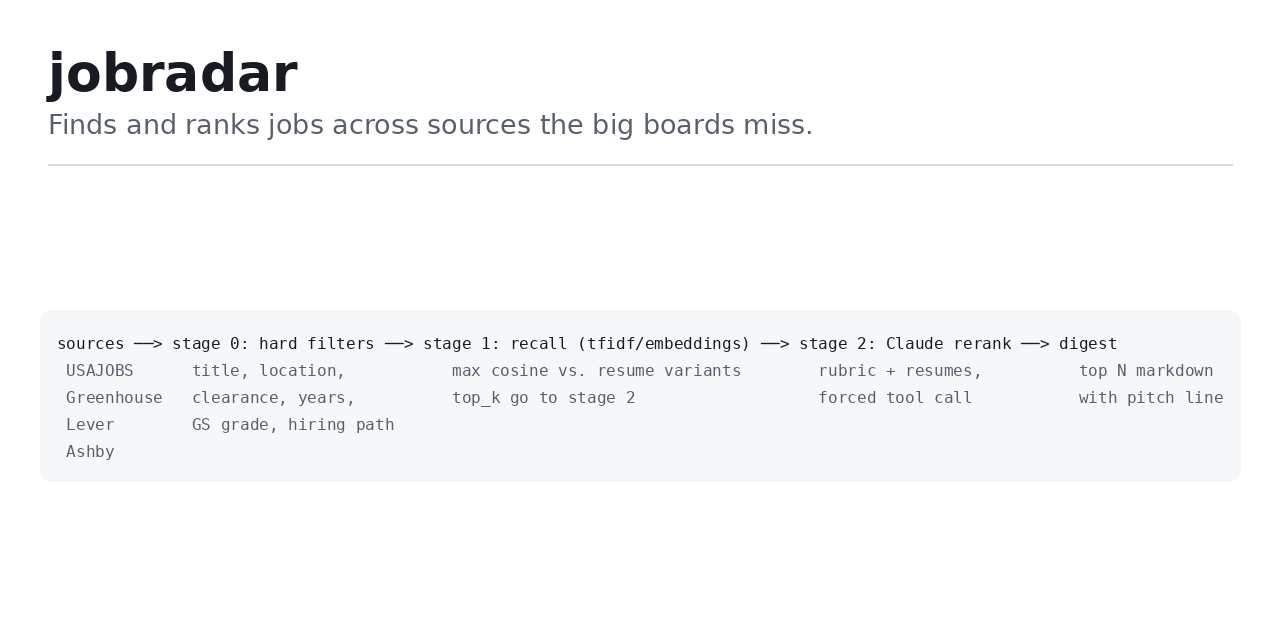
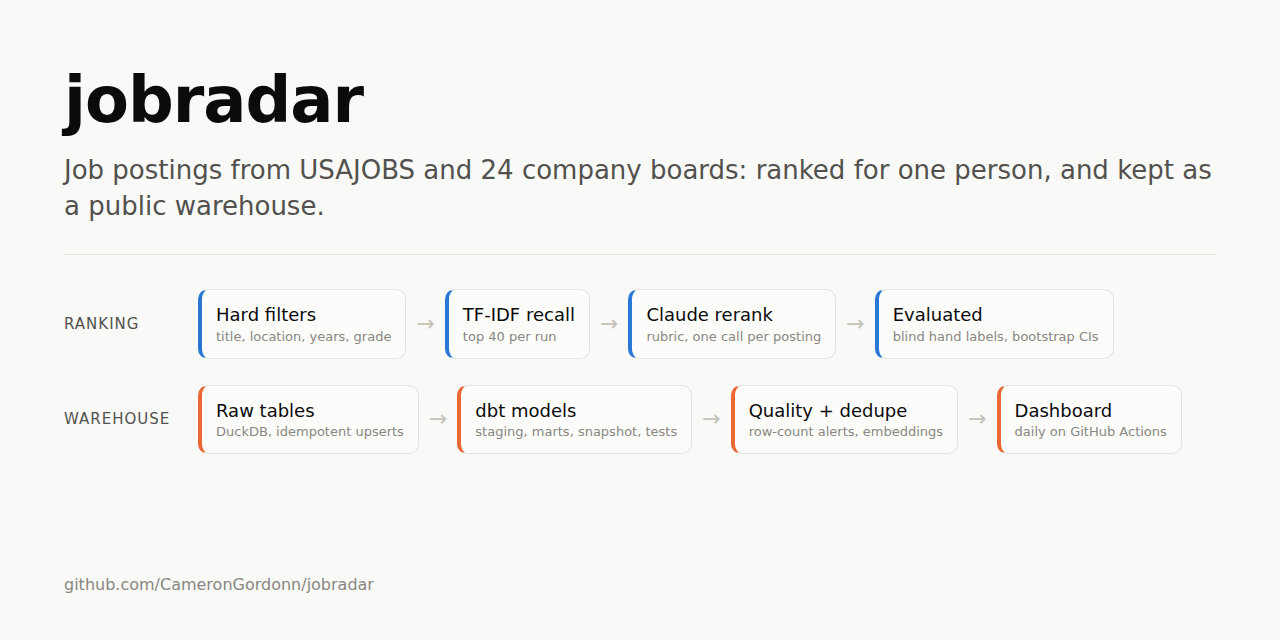
Redraw the social preview for both halves of the project
The old image showed only the original ranking pipeline. The HTML source
is committed next to the PNG so it can be regenerated.

diff --git a/docs/social-preview.html b/docs/social-preview.html
@@ -1,0 +1,40 @@
+<!doctype html>
+<html><head><meta charset="utf-8"><title>jobradar preview</title>
+<!-- Source for social-preview.png (1280x640). Render with any headless Chromium:
+     chrome --headless --window-size=1280,640 --screenshot=docs/social-preview.png docs/social-preview.html -->
+<style>
+* { box-sizing: border-box; margin: 0; }
+body { width: 1280px; height: 640px; background: #f9f9f7; color: #0b0b0b;
+       font: 18px/1.4 system-ui, -apple-system, "Segoe UI", sans-serif; padding: 56px 64px; }
+h1 { font-size: 64px; font-weight: 700; letter-spacing: -1px; }
+.sub { font-size: 26px; color: #52514e; margin-top: 6px; }
+.rule { height: 1px; background: #e1e0d9; margin: 30px 0 34px; }
+.lane { display: flex; align-items: center; gap: 10px; margin-bottom: 26px; }
+.tag { flex: none; width: 124px; font-size: 15px; color: #52514e; text-transform: uppercase; letter-spacing: 1px; }
+.box { background: #fcfcfb; border: 1px solid rgba(11,11,11,0.10); border-radius: 10px; padding: 12px 14px;
+       font-size: 18px; white-space: nowrap; }
+.box small { display: block; font-size: 13px; color: #898781; }
+.arrow { color: #c3c2b7; font-size: 22px; }
+.k1 { border-left: 4px solid #2a78d6; } .k2 { border-left: 4px solid #eb6834; }
+.foot { position: absolute; bottom: 44px; left: 64px; font-size: 16px; color: #898781; }
+</style></head>
+<body>
+  <h1>jobradar</h1>
+  <p class="sub">Job postings from USAJOBS and 24 company boards: ranked for one person, and kept as a public warehouse.</p>
+  <div class="rule"></div>
+  <div class="lane">
+    <div class="tag">Ranking</div>
+    <div class="box k1">Hard filters<small>title, location, years, grade</small></div><span class="arrow">&rarr;</span>
+    <div class="box k1">TF-IDF recall<small>top 40 per run</small></div><span class="arrow">&rarr;</span>
+    <div class="box k1">Claude rerank<small>rubric, one call per posting</small></div><span class="arrow">&rarr;</span>
+    <div class="box k1">Evaluated<small>blind hand labels, bootstrap CIs</small></div>
+  </div>
+  <div class="lane">
+    <div class="tag">Warehouse</div>
+    <div class="box k2">Raw tables<small>DuckDB, idempotent upserts</small></div><span class="arrow">&rarr;</span>
+    <div class="box k2">dbt models<small>staging, marts, snapshot, tests</small></div><span class="arrow">&rarr;</span>
+    <div class="box k2">Quality + dedupe<small>row-count alerts, embeddings</small></div><span class="arrow">&rarr;</span>
+    <div class="box k2">Dashboard<small>daily on GitHub Actions</small></div>
+  </div>
+  <p class="foot">github.com/CameronGordonn/jobradar</p>
+</body></html>
